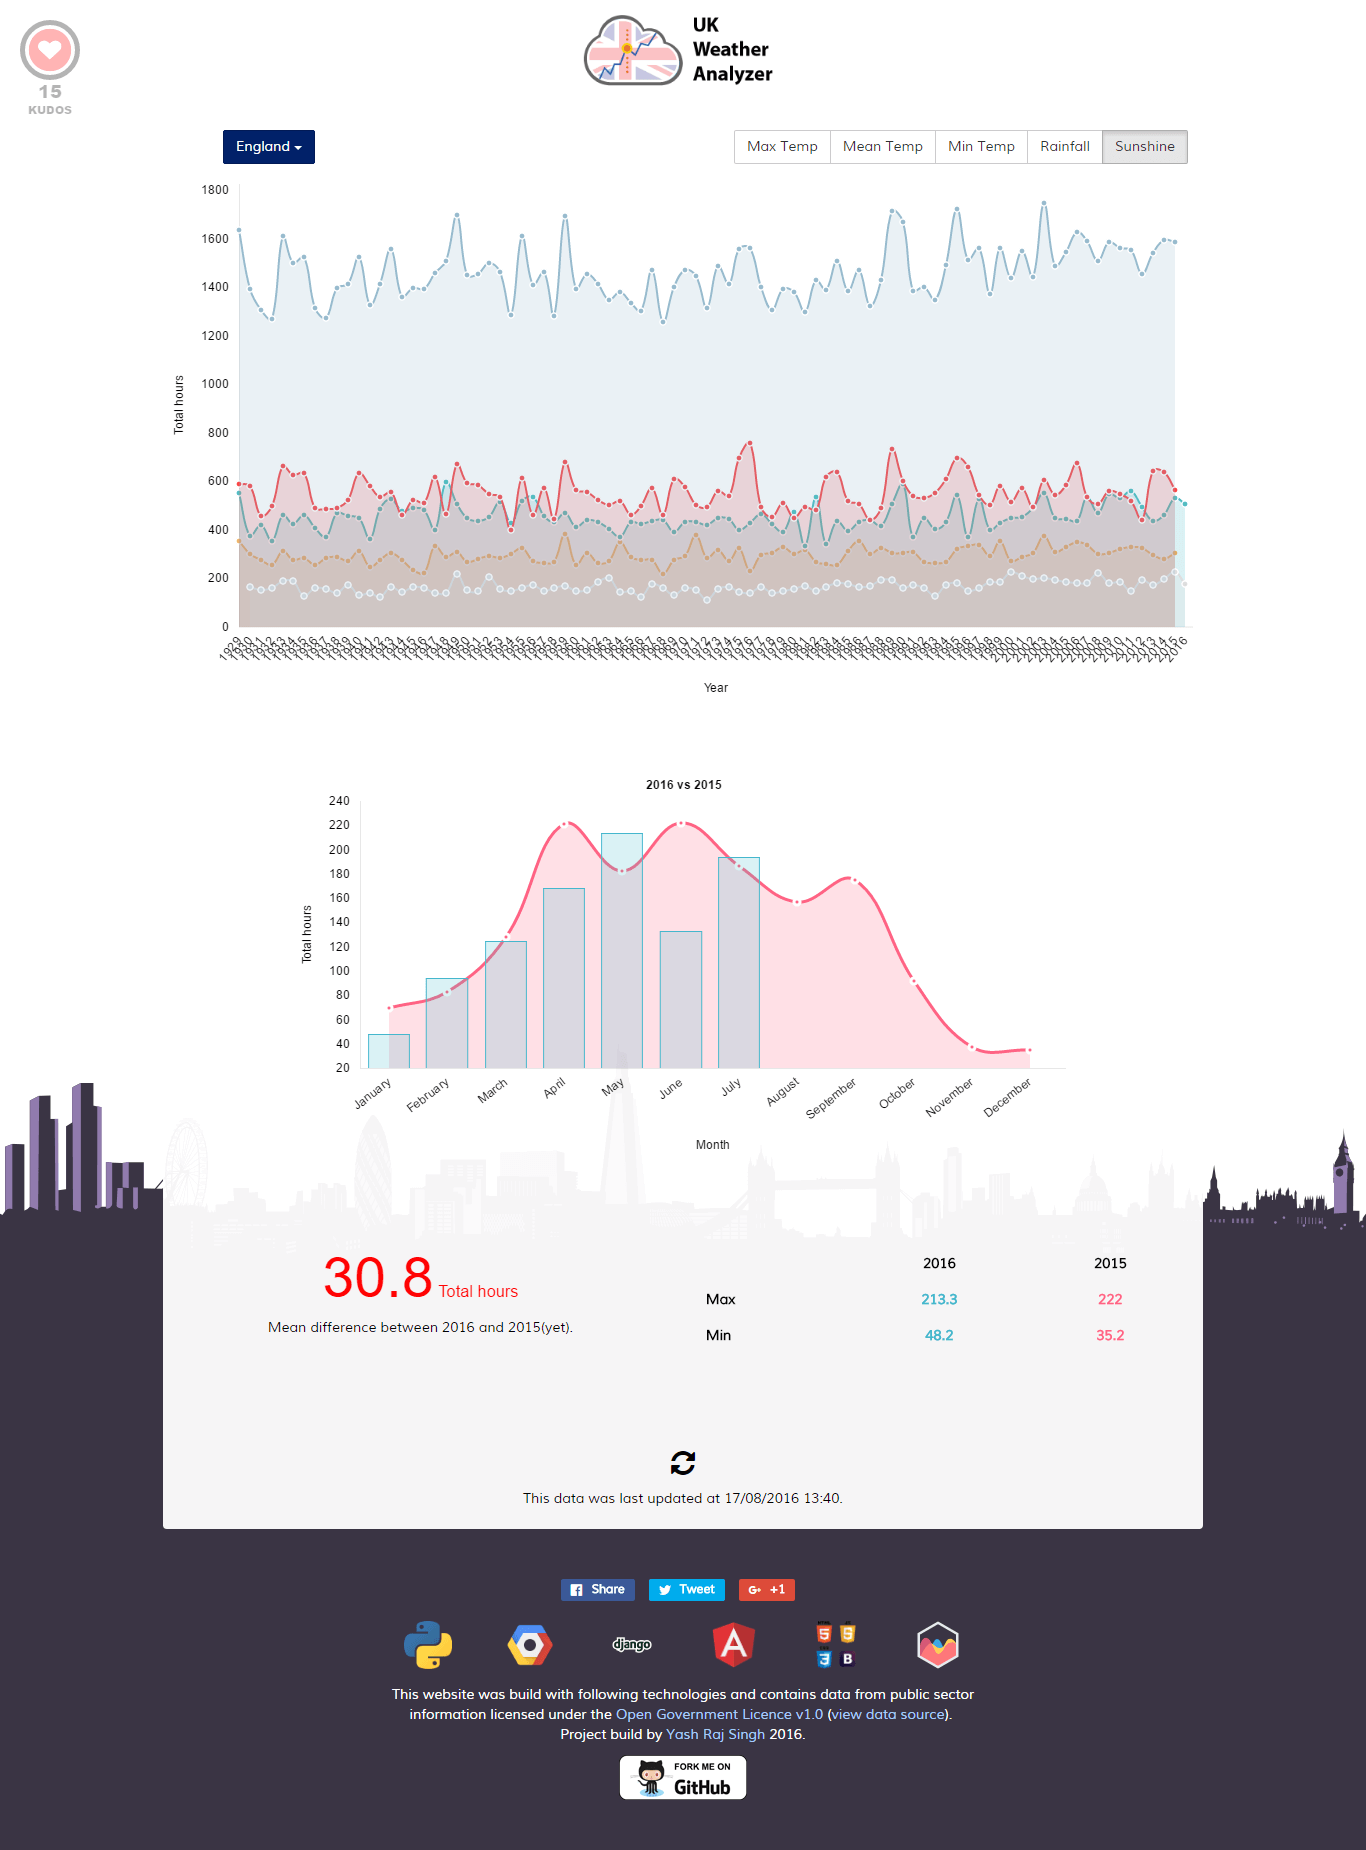
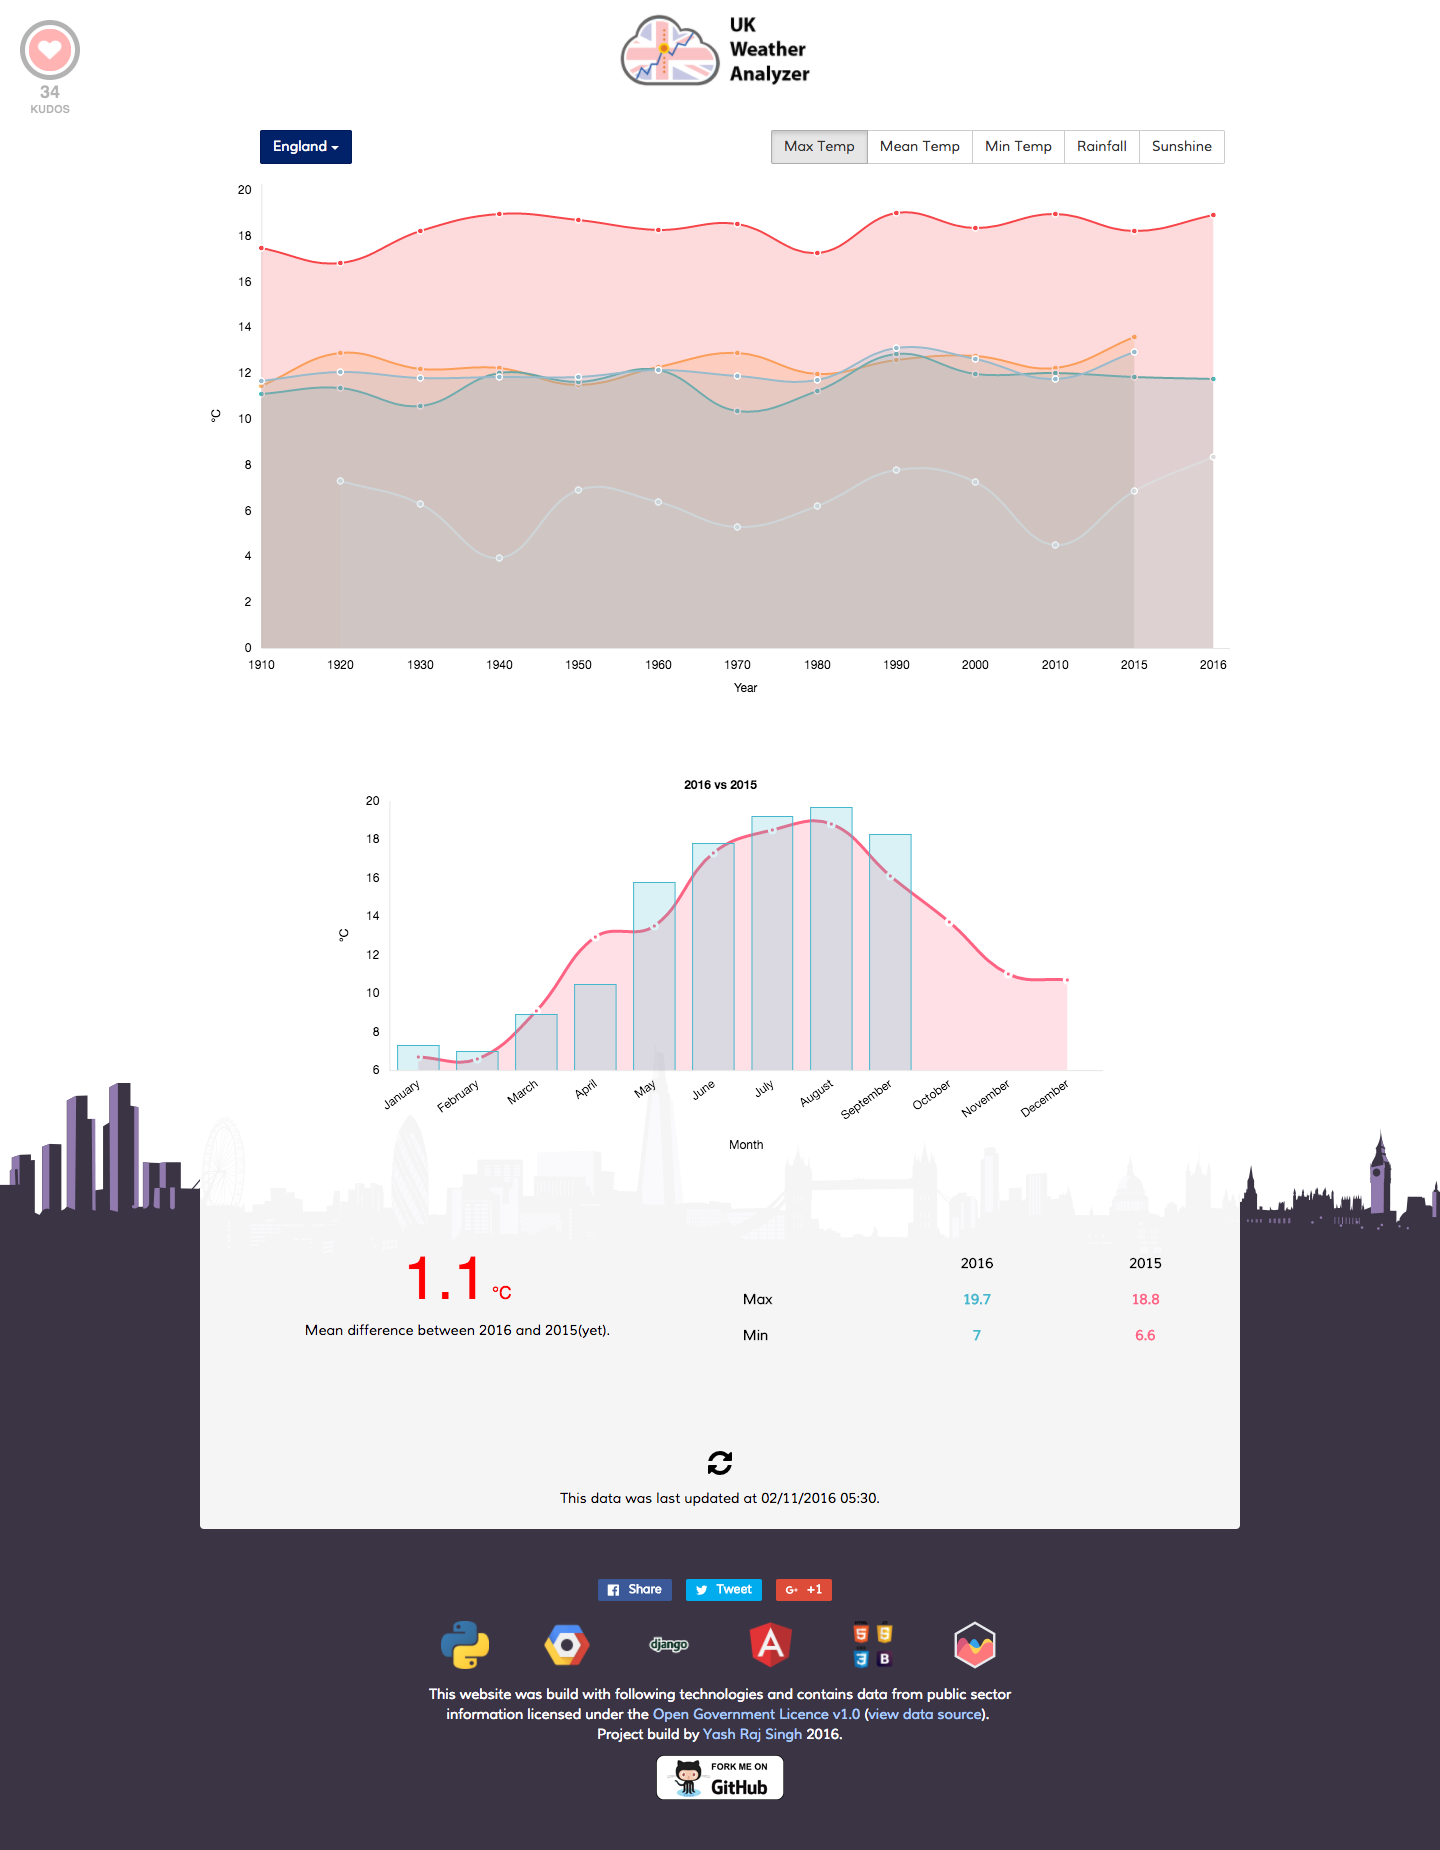
Update on Projects
- Updated 10k Apart win.
- Added Trophy Icon.
- Small fixes.

diff --git a/_source/index.html b/_source/index.html
@@ -1,7 +1,7 @@
 ---
 title: Yash Raj Singh
 class: home
-javascript: 
+javascript:
 - masonry.pkgd.min
 - imagesloaded.pkgd.min
 ---
@@ -13,12 +13,12 @@ javascript:
 		    <a href="{{ project.url }}" class="grid-item box col2" data-words="{{ project.content | number_of_words }}" data-date="{{ forloop.index }}">
 				<img src="{{ project.image }}">
 				<div class="info" style="{% if project.do_not_show_details %}display:none;{% endif %}">
-		          	<hgroup>  
+		          	<hgroup>
 			            <p>{{ project.title }}</p>
-			            {% if project.type %} 
+			            {% if project.type %}
 				            <h4>type</h4>
-				            <p>{{ project.type }}</p> 
-			            {% endif %} 
+				            <p>{{ project.type }}</p>
+			            {% endif %}
 		        	</hgroup>
 		        </div>
 			</a>
@@ -29,7 +29,7 @@ javascript:
 
 <script type="text/javascript">
 	var $container = $('.content');
-	// initialize Masonry after all images have loaded  
+	// initialize Masonry after all images have loaded
 	$container.imagesLoaded( function() {
 		$('.grid').masonry({
 		  // options

diff --git a/_source/assets/stylesheets/style.scss b/_source/assets/stylesheets/style.scss
@@ -117,8 +117,8 @@ hr.line {
   max-width: 400px;
 }
 
-.icon {
-  padding: 10px;
+.center {
+  text-align: center;
 }
 
 
@@ -166,8 +166,8 @@ hr.line {
 // ——————————————————————————————————————————— •
 
 @include responsive-break-point(800px) {
-  .content { 
-    width: auto; 
+  .content {
+    width: auto;
     margin-left: 275px;
     padding: 35px 5px 20px 0px;
   }

diff --git a/_source/_posts/projects/2016-08-14-uk-weather-analyzer.md b/_source/_posts/projects/2016-08-14-uk-weather-analyzer.md
@@ -10,7 +10,44 @@ image: /assets/images/projects/ukweatheranalyzer/thumb1.png
 do_not_show_details: false
 ---
 
-<div class="project project-website spacing-one width-two">
+<div class="project project-phone width-one">
+  <a href="https://10k-uk-weather.azurewebsites.net/" target="_blank">
+    {% project ukweatheranalyzer, 10k_ss_mobile, png %}
+  </a>
+</div>
+
+<div class="project project-description width-four">
+  <h3><a href="https://uk-weather-analyzer.appspot.com/" target="_blank">10K UK Weather Analyzer & Visualization</a></h3>
+  <p>In October 2016, I participated & <a href="https://blogs.windows.com/msedgedev/2016/11/04/announcing-the-winners-of-the-2016-10k-apart-contest/" target="_blank">won ‘Best Technical Award’</a> in the prestigious <a href="https://a-k-apart.com/" target="_blank">10K Apart Challenge</a> of 2016. 10K Apart International Challenge by <a href="http://microsoft.com/" target="_blank">Microsoft</a> & <a href="https://aneventapart.com/" target="_blank">An Event Apart</a> is about building a compelling web experience that can be delivered in 10kB and works without JavaScript. About 380 entries took part from around the globe, judged by some of the best developers, designers of the industry.</p>
+  <p>
+  I made a lite version of <a href="https://uk-weather-analyzer.appspot.com/" target="_blank">UK Weather Analyzer</a>, using NodeJS, Azure. With this application users can analyze, visualize UK & Other regions weather data, while playing a short game and learn some new facts as well. The initial download is around ~8KB and doesn't require JavaScript. Build with Progressive Enhancement in mind, so added enhancements with JavaScript and CSS. Accessibility and browser support(even lynx) enabled. You can also fork the <a href="https://github.com/yashrajsingh/10k-uk-weather" target="_blank">code on GitHub</a></p>
+</div>
+
+<div class="project project-logo-tech width-one">
+    {% icons nodejs, png  %}
+</div>
+
+<div class="project project-logo-tech width-one">
+    {% icons azure, png  %}
+</div>
+
+<div class="project project-website width-three">
+  <a href="https://10k-uk-weather.azurewebsites.net/" target="_blank">
+    {% project ukweatheranalyzer, 10k_ss, png %}
+  </a>
+</div>
+
+<div class="project width-one center">
+    <a href="https://a-k-apart.com/#winners" target="_blank">
+      {% icons trophy, png %}
+      {% project ukweatheranalyzer, 10k_apart, png %}
+      <small class="portfolio-copyright">
+        Won "Best Technical" Prize in 10K Apart Challenge 2016 By Microsoft & An Event Apart.
+      </small>
+    </a>
+</div>
+
+<div class="project project-website clear-left spacing-one width-two">
   <a href="https://uk-weather-analyzer.appspot.com/" target="_blank">
     {% project ukweatheranalyzer, ss, png %}
   </a>
@@ -26,5 +63,5 @@ do_not_show_details: false
 
 <div class="project project-description clear-right width-two">
   <h3><a href="https://uk-weather-analyzer.appspot.com/" target="_blank">UK Weather Analyzer</a></h3>
-  <p>In August, 2016, I made a weather data(from 1910 onwards) visualization web-application for the UK regions(London, UK, Wales, Scotland) using GAE, Angularjs, django, Chart.js. You can view the visualization <a href="https://uk-weather-analyzer.appspot.com/" target="_blank">here</a> and you can fork the <a href="https://github.com/yashrajsingh/tellmeweathernow-gopherconindia2015" target="_blank">code on GitHub</a>.</p>
+  <p>In August, 2016, I made a weather data(from 1910 onwards) visualization web-application for the UK regions(London, UK, Wales, Scotland) using GAE, AngularJS, django, Chart.js. You can view the visualization <a href="https://uk-weather-analyzer.appspot.com/" target="_blank">here</a> and you can fork the <a href="https://github.com/yashrajsingh/tellmeweathernow-gopherconindia2015" target="_blank">code on GitHub</a>.</p>
 </div>

diff --git a/_source/_posts/projects/2014-05-01-equilibrium.md b/_source/_posts/projects/2014-05-01-equilibrium.md
@@ -10,14 +10,14 @@ type: web
 ---
 
 <div class="project project-poster clear-left spacing-two width-three">
-  <a href="https://basecamp.com/1679267/announcements/27" target="_blank">
+  <a href="http://www.google.com/events/gcdc2013" target="_blank">
     {% project equilibrium, gcdc_baner, png %}
   </a>
 </div>
 
 <div class="project-description clear-left width-three">
   <h3><a href="https://gcdc2013-equilibrium.appspot.com" target="_blank">Equilibrium - gcdc2013</a></h3>
-  <p>In 2013, I participated in <a href="http://www.google.co.in/events/gcdc2013" target="_blank">Google Cloud Developers Challenge 2013</a> and was selected as the <a href="http://www.google.co.in/events/gcdc2013/finalists.html" target="_blank">internation finalist</a> in the competition. I build an application for managing projects deadlines within a company. I called it Equilibrium. I won 1000$, Nexus Tablet and other goodies from Google(Yay! Score).</p>
+  <p>In 2013, I participated in <a href="http://www.google.com/events/gcdc2013" target="_blank">Google Cloud Developers Challenge 2013</a> and was selected as the <a href="http://www.google.com/events/gcdc2013/finalists.html" target="_blank">internation finalist</a> in the competition. I build an application for managing projects deadlines within a company. I called it Equilibrium. I won 1000$, Nexus Tablet and other goodies from Google(Yay! Score).</p>
 </div>
 
 <div class="project project-website fit-right width-two">
@@ -26,7 +26,16 @@ type: web
   </a>
 </div>
 
-<div class="project project-website fit-right spacing-three width-two">
+<div class="project spacing-two width-one center">
+    <a href="http://www.google.com/events/gcdc2013" target="_blank">
+      {% icons trophy, png %}
+      <small class="portfolio-copyright">
+        International finalist in GCDC 2013 By Google.
+      </small>
+    </a>
+</div>
+
+<div class="project project-website fit-right width-two">
   <a href="https://gcdc2013-equilibrium.appspot.com" target="_blank">
     {% project equilibrium, ss2, jpg %}
   </a>

diff --git a/_source/_posts/projects/2015-09-24-tellmeweathernow.md b/_source/_posts/projects/2015-09-24-tellmeweathernow.md
@@ -9,7 +9,7 @@ image: /assets/images/projects/tellmeweathernow/thumb.png
 do_not_show_details: true
 ---
 
-<div class="project project-phone clear-left spacing-one width-one">
+<div class="project project-phone clear-left width-one">
   <a href="http://tellmeweathernow.appspot.com/" target="_blank">
     {% project tellmeweathernow, ss_mobile, png %}
   </a>
@@ -19,6 +19,15 @@ do_not_show_details: true
   <a href="http://tellmeweathernow.appspot.com/" target="_blank">
     {% project tellmeweathernow, ss, png %}
   </a>
+</div>
+
+<div class="project width-one center">
+    <a href="http://www.gophercon.in/2015/scholarship/" target="_blank">
+      {% icons trophy, png %}
+      <small class="portfolio-copyright">
+        Won scholarship for GopherConIndia 2015.
+      </small>
+    </a>
 </div>
 
 <div class="project-description width-three">
